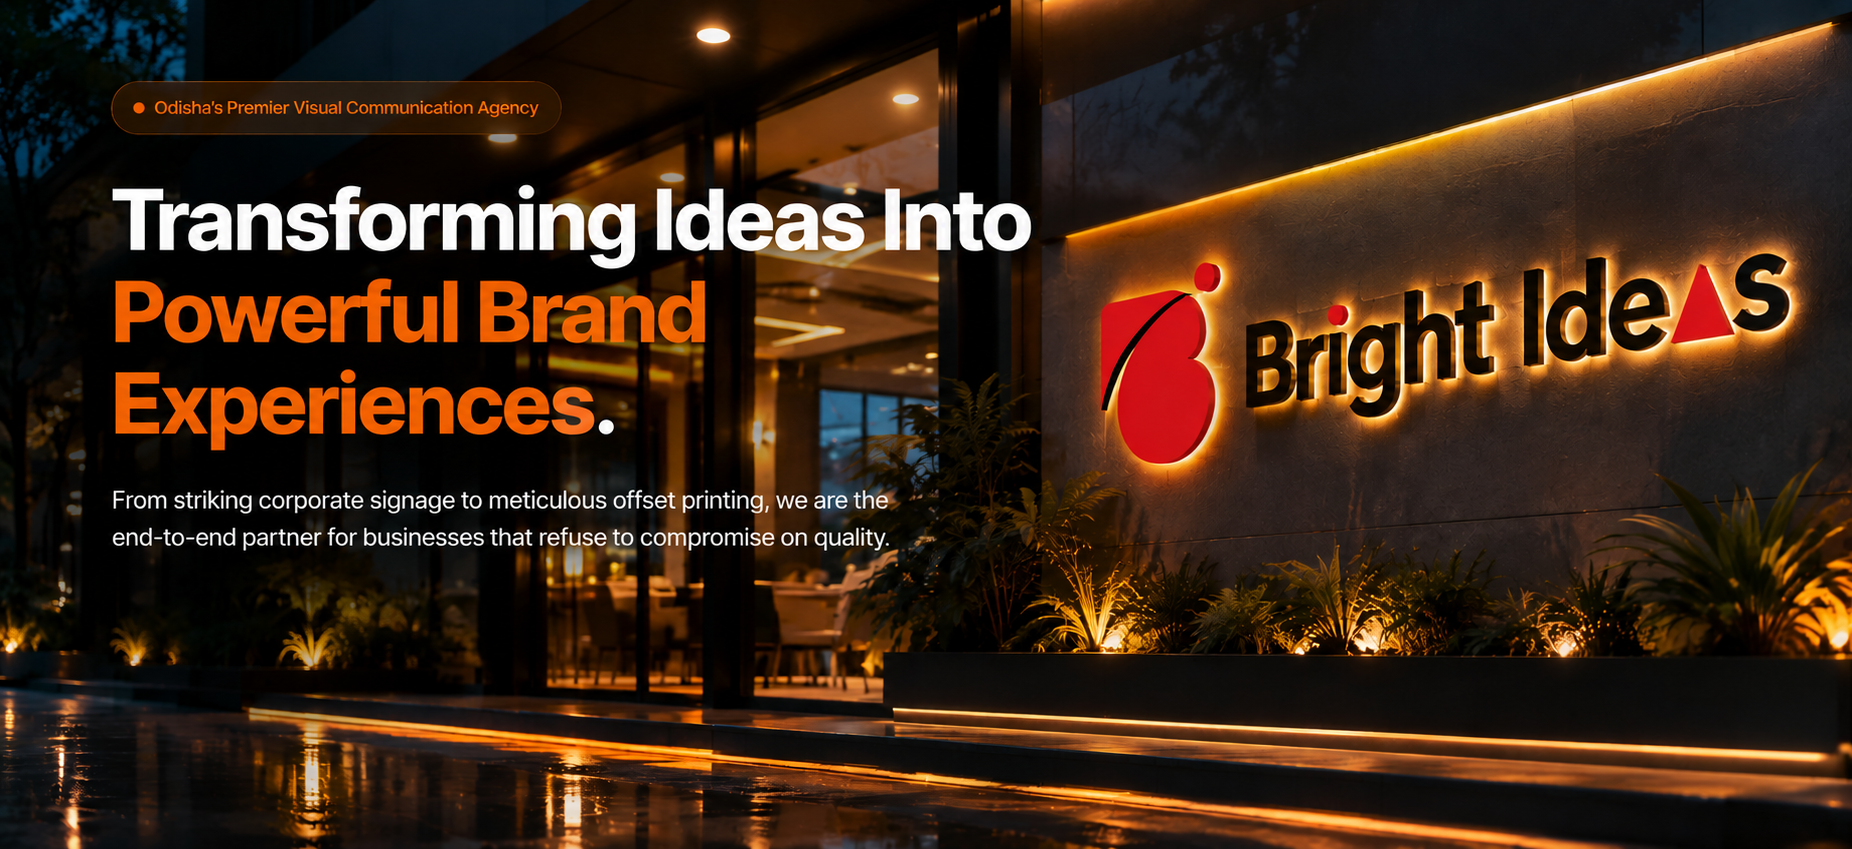
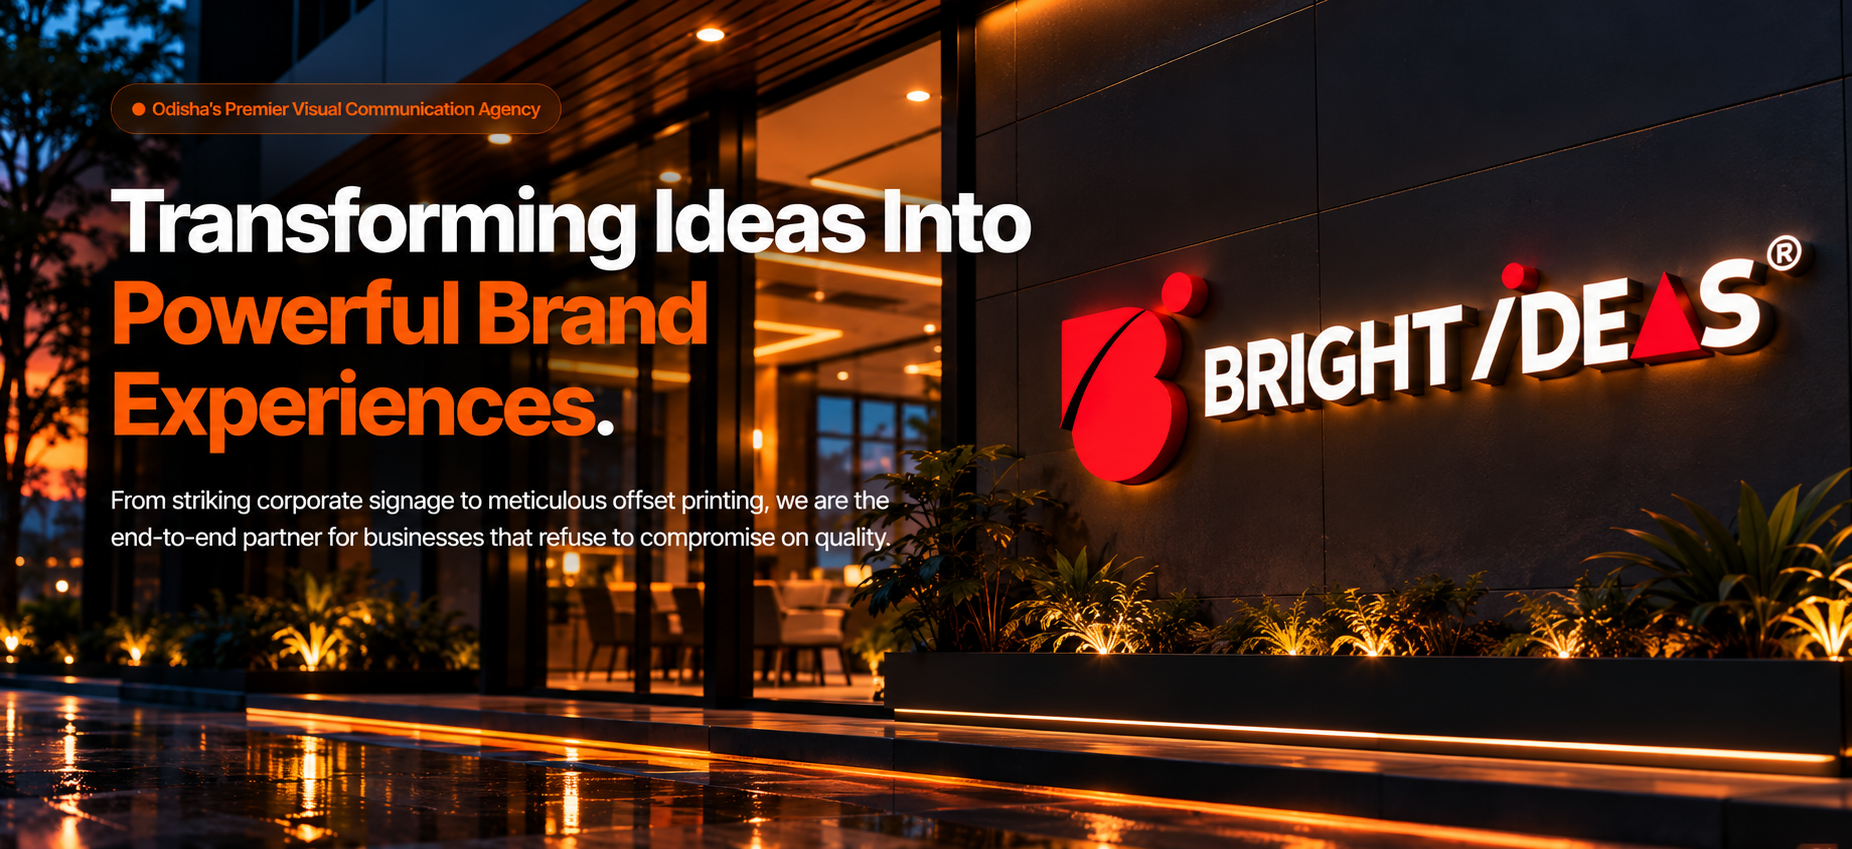
Add machinery page and update hero image

diff --git a/src/pages/Machinery.tsx b/src/pages/Machinery.tsx
@@ -1,0 +1,85 @@
+import { useState } from "react";
+import { motion } from "framer-motion";
+import { Search } from "lucide-react";
+import { PageHeader } from "@/components/ui/PageHeader";
+import { ScrollReveal } from "@/components/ui/ScrollReveal";
+import { Lightbox } from "@/components/ui/Lightbox";
+import { machineryData, siteImages } from "@/data/content";
+
+export default function Machinery() {
+  const [lightboxOpen, setLightboxOpen] = useState(false);
+  const [photoIndex, setPhotoIndex] = useState(0);
+
+  const lightboxImages = machineryData.map((item) => ({
+    src: item.image,
+    alt: item.title,
+    title: item.title,
+  }));
+
+  const openLightbox = (index: number) => {
+    setPhotoIndex(index);
+    setLightboxOpen(true);
+  };
+
+  return (
+    <div className="w-full bg-background min-h-screen">
+      <PageHeader
+        title="Our Machinery"
+        subtitle="Explore the equipment behind our printing, production, and branding capabilities."
+        image={siteImages.project1}
+      />
+
+      <section className="py-20">
+        <div className="container mx-auto px-4 md:px-6">
+          <ScrollReveal direction="up" className="mb-12 text-center">
+            <p className="mx-auto max-w-2xl text-slate-600 dark:text-slate-300">
+              A look at selected machinery and equipment used by Bright Ideas.
+            </p>
+          </ScrollReveal>
+
+          <div className="grid grid-cols-1 gap-8 md:grid-cols-2">
+            {machineryData.map((item, index) => (
+              <motion.div
+                key={item.id}
+                initial={{ opacity: 0, y: 20 }}
+                animate={{ opacity: 1, y: 0 }}
+                transition={{ duration: 0.4, delay: index * 0.1 }}
+                className="group relative aspect-[4/3] cursor-pointer overflow-hidden rounded-2xl bg-white shadow-lg transition-shadow hover:shadow-2xl"
+                onClick={() => openLightbox(index)}
+              >
+                <img
+                  src={item.image}
+                  alt={item.title}
+                  className="h-full w-full object-cover transition-transform duration-700 group-hover:scale-105"
+                />
+
+                <div className="absolute inset-0 bg-gradient-to-t from-primary/90 via-primary/20 to-transparent opacity-0 transition-opacity duration-300 group-hover:opacity-100" />
+
+                <div className="absolute inset-x-0 bottom-0 p-6 opacity-0 transition-all duration-300 group-hover:translate-y-0 group-hover:opacity-100">
+                  <span className="mb-2 inline-block rounded-full bg-accent px-3 py-1 text-xs font-bold uppercase tracking-wider text-white">
+                    Machinery
+                  </span>
+
+                  <h2 className="text-2xl font-display font-bold text-white">
+                    {item.title}
+                  </h2>
+                </div>
+
+                <div className="absolute right-5 top-5 flex h-11 w-11 scale-75 items-center justify-center rounded-full bg-white/20 text-white opacity-0 backdrop-blur-md transition-all duration-300 group-hover:scale-100 group-hover:opacity-100">
+                  <Search size={20} />
+                </div>
+              </motion.div>
+            ))}
+          </div>
+        </div>
+      </section>
+
+      <Lightbox
+        isOpen={lightboxOpen}
+        onClose={() => setLightboxOpen(false)}
+        images={lightboxImages}
+        currentIndex={photoIndex}
+      />
+    </div>
+  );
+}

diff --git a/src/data/content.ts b/src/data/content.ts
@@ -82,6 +82,39 @@ export const projectImages = {
   ]
 };
 
+export const machineryData = [
+  {
+    id: "machinery-01",
+    title: "Large Format UV Printing Machine",
+    image: "/projects/machinery/machinery-01.jpg",
+  },
+  {
+    id: "machinery-02",
+    title: "Large Format Printing Machine",
+    image: "/projects/machinery/machinery-02.jpg",
+  },
+  {
+    id: "machinery-03",
+    title: "CNC Cutting & Routing Machine",
+    image: "/projects/machinery/machinery-03.jpg",
+  },
+  {
+    id: "machinery-04",
+    title: "CNC Engraving & Cutting Machine",
+    image: "/projects/machinery/machinery-04.jpg",
+  },
+  {
+    id: "machinery-05",
+    title: "Digital Production Printing Machine",
+    image: "/projects/machinery/machinery-05.jpg",
+  },
+  {
+    id: "machinery-06",
+    title: "Laser Cutting & Engraving Machine",
+    image: "/projects/machinery/machinery-06.jpg",
+  },
+];
+
 export const companyData = {
   name: "Bright Ideas",
   tagline: "Transforming Ideas Into Powerful Brand Experiences.",
@@ -284,3 +317,4 @@ export const faqs = [
     answer: "Yes, MOQs vary depending on the product type and level of customization. Please contact our sales team with your specific requirements for a detailed quote."
   }
 ];
+

diff --git a/src/components/layout/Footer.tsx b/src/components/layout/Footer.tsx
@@ -415,6 +415,31 @@ export function Footer() {
                   Gallery
                 </Link>
               </li>
+              <li>
+                <Link
+                  href="/machinery"
+                  className="
+                    group
+                    flex
+                    items-center
+                    gap-2
+                    text-sm
+                    text-slate-400
+                    transition-colors
+                    hover:text-accent
+                  "
+                >
+                  <ArrowRight
+                    size={13}
+                    className="
+                      transition-transform
+                      duration-200
+                      group-hover:translate-x-1
+                    "
+                  />
+                  Machinery
+                </Link>
+              </li>
 
               <li>
                 <Link

diff --git a/src/App.tsx b/src/App.tsx
@@ -6,7 +6,8 @@ import Home from '@/pages/Home';
 import About from '@/pages/About';
 import Services from '@/pages/Services';
 import Portfolio from '@/pages/Portfolio';
-import Gallery from '@/pages/Gallery'; 
+import Gallery from '@/pages/Gallery';
+import Machinery from '@/pages/Machinery'; 
 import Contact from '@/pages/Contact';
 import Clients from '@/pages/Clients';
 import Testimonials from '@/pages/Testimonials';
@@ -50,6 +51,7 @@ function Router() {
         <Route path="/services" component={Services} />
         <Route path="/portfolio" component={Portfolio} />
         <Route path="/gallery" component={Gallery} />
+        <Route path="/machinery" component={Machinery} />
         <Route path="/contact" component={Contact} />
         <Route path="/clients" component={Clients} />
         <Route path="/testimonials" component={Testimonials} />

diff --git a/src/components/layout/Navbar.tsx b/src/components/layout/Navbar.tsx
@@ -11,6 +11,7 @@ const navLinks = [
   { name: "Services", path: "/services" },
   { name: "Portfolio", path: "/portfolio" },
   { name: "Gallery", path: "/gallery" },
+  { name: "Machinery", path: "/machinery" },
   { name: "Contact", path: "/contact" },
 ];
 
@@ -502,3 +503,4 @@ export function Navbar() {
     </>
   );
 }
+
